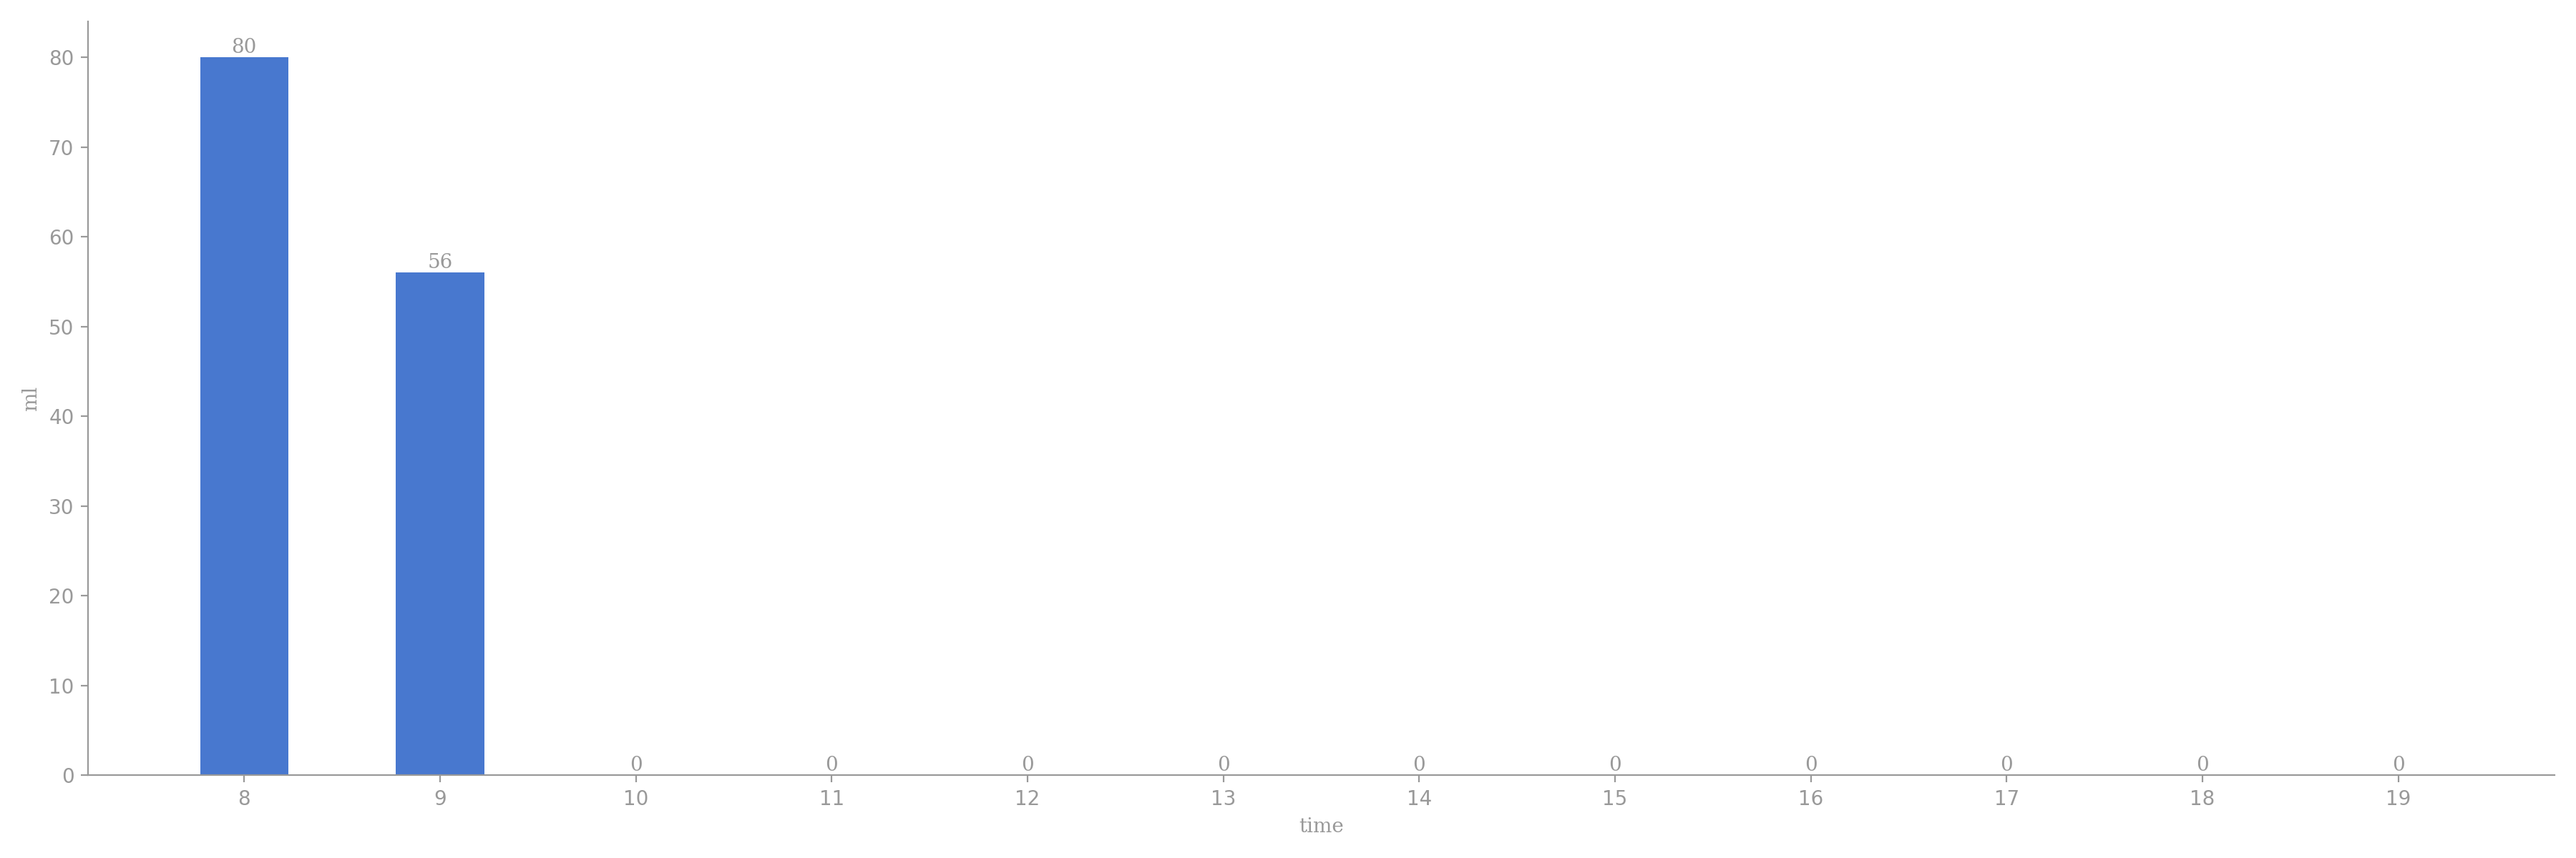
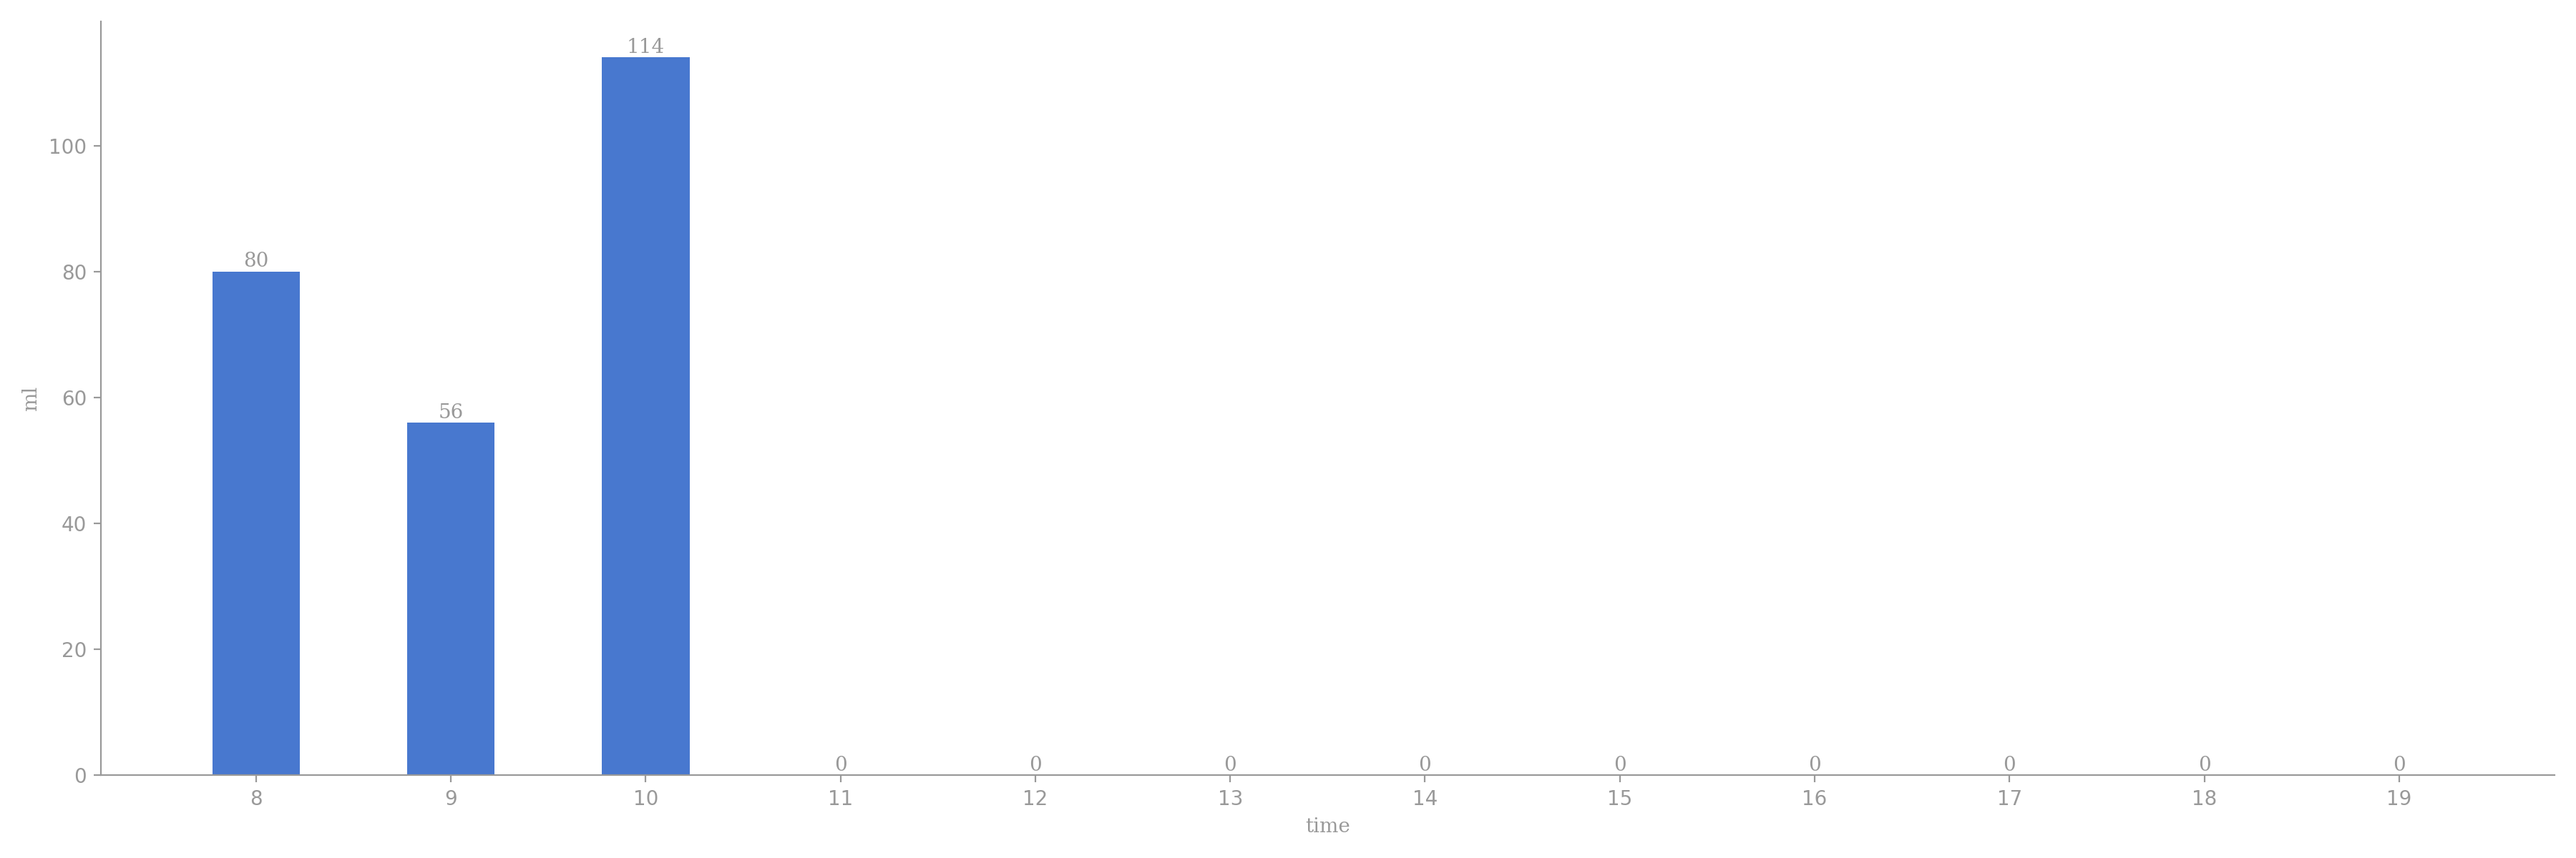
generated readme

diff --git a/README.md b/README.md
@@ -5,12 +5,12 @@
 
 | 今日总饮水量 | 每小时平均饮水量 |
 | :----: | :----: |
-| 136 | 68 |
+| 250 | 83 |
 </div>
 
-| 日期 | 08:04:04 | 09:50:40 |
-| :----: | :----: | :----: |
-| 2024-08-01 | 80 | 56 |
+| 日期 | 08:04:04 | 09:50:40 | 10:18:44 |
+| :----: | :----: | :----: | :----: |
+| 2024-08-01 | 80 | 56 | 114 |
 
 # 近30日饮水数据
 
